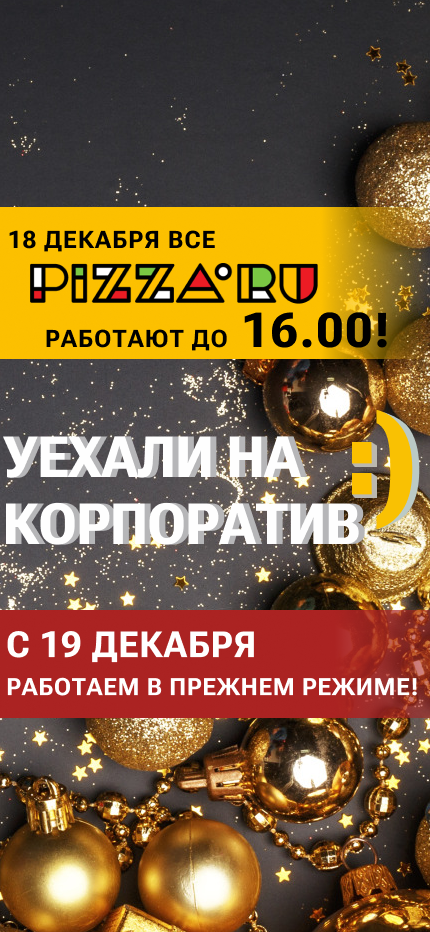
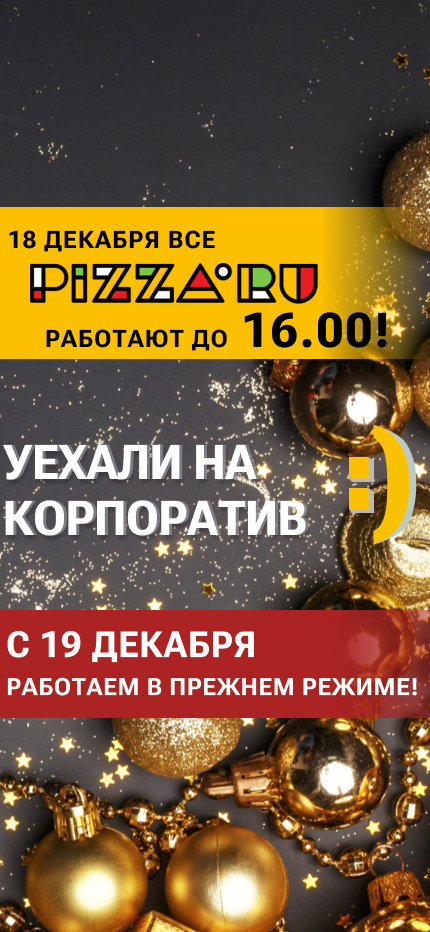
change cs

diff --git a/index.html b/index.html
@@ -22,7 +22,7 @@
             left: 0;
             width: 100%;
             height: 100%;
-            background-image: url('placeholder-3.png');
+            background-image: url('placeholder-4.png');
             background-size: cover;
             background-position: top left;
         }
